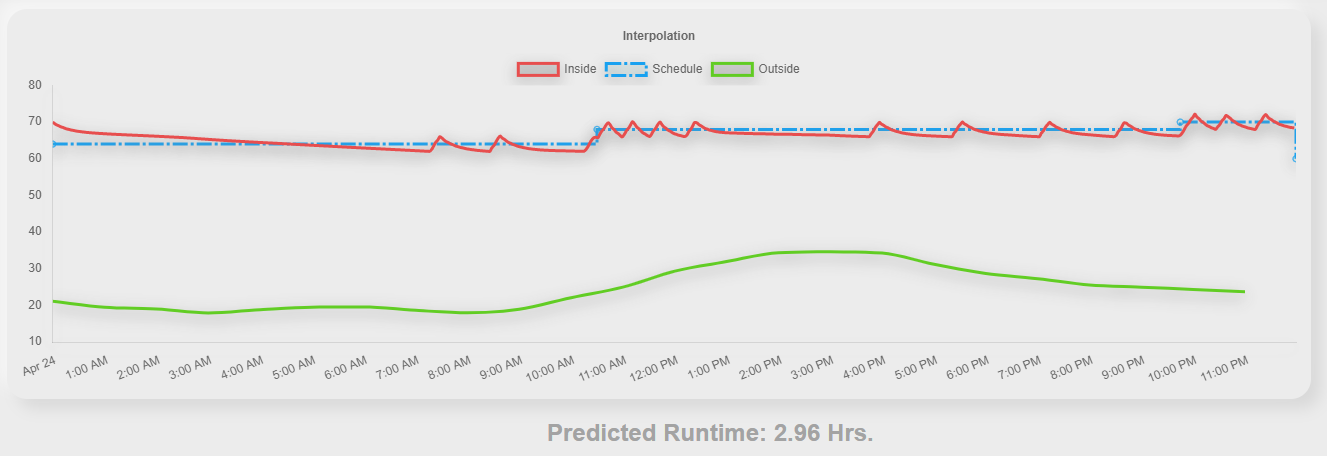
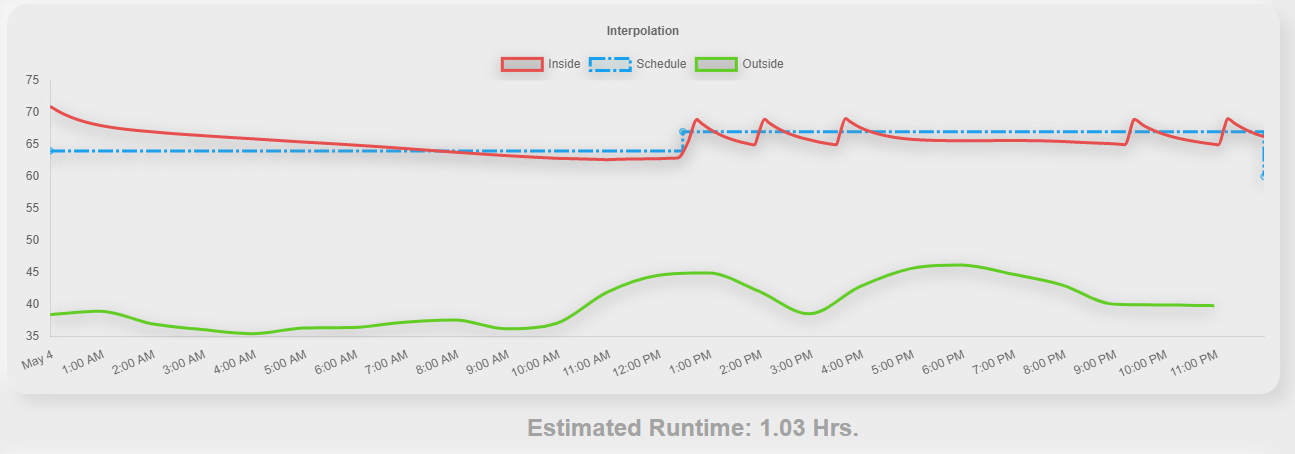
C++ implementation updated

diff --git a/modules/simulation_cpp/simulation.cpp b/modules/simulation_cpp/simulation.cpp
@@ -1,19 +1,16 @@
 #include <iostream>
 #include <boost/python.hpp>
+#include <deque>
 
 using namespace boost::python;
 
-const int N = 250;
-const double delta_time = 0.01;
-const double BTU = 25.0;
-const double thresh_L = 2.0;
-const double thresh_H = 2.0;
-bool heat_on = false;
-bool last_heating = false;
+double delta_time = 0.01;
+double BTU = 25.0;
+double thresh_L = 2.0;
+double thresh_H = 2.0;
 double runtime = 0.0;
-double time_hr = 0.0;
 
-double find_target_t(list schedule) {
+double get_target_temp(double time_hr, list schedule) {
 	double target_t = 0.0;
 
 	int n = len(schedule);
@@ -30,94 +27,95 @@ double find_target_t(list schedule) {
 	return target_t;
 }
 
-double H(double temp, list schedule) {
-	double target_t = find_target_t(schedule);
-
-	if (temp <= target_t - thresh_L) {
+double H(double inside_t, double target, bool* furnace_on) {
+	if (inside_t < (target - thresh_L) || (*furnace_on && inside_t < (target + thresh_H))) {
 		runtime += delta_time;
-		heat_on = true;
+		*furnace_on = true;
 		return BTU;
 	}
-	else if (temp <= target_t + thresh_H && heat_on) {
-		runtime += delta_time;
-		return BTU;
-	}
-	else {
-		heat_on = false;
-		return 0.0;
-	}
+	*furnace_on = false;
+	return 0.0;
 }
 
-tuple simulate(double start_temperature, list sched, list weather_t, list uv_index) {
+tuple simulate(double start_temperature, list sched, list weather_t, list uv_index, dict vals) {
 	// time of day in hours
-	time_hr = 0.0;
+	double time_hr = 0.0;
 	// if the furnace is on
-	heat_on = false;
-	last_heating = false;
+	bool furnace_on = false;
+	
+	BTU = extract<double>(vals.get("btu"));
+	delta_time = extract<double>(vals.get("delta-time"));
+	thresh_H = extract<double>(vals.get("thresh-upper"));
+	thresh_L = extract<double>(vals.get("thresh-lower"));
+	int sample_avg_size = extract<int>(vals.get("sample-avg"));
+	int rolling_avg_size = extract<int>(vals.get("rolling-avg-size"));
+
 	// insulation
-	double k1 = 0.08; // wall
-	double k2 = 0.18; // cieling
-	double k3 = 0.03; // roof
+	double k1 = extract<double>(vals.get("k1")); // wall
+	double k2 = extract<double>(vals.get("k2")); // cieling
+	double k3 = extract<double>(vals.get("k3")); // roof
+	double f1 = extract<double>(vals.get("f1")); // uv walls
+	double f2 = extract<double>(vals.get("f2")); // uv roof
+	runtime = 0.0;
+
 	// starting temperatures
 	double inside_t = start_temperature;
 	double attic_t = start_temperature - 4.0;
+
 	// change in temperature
 	double delta_t1, delta_t2;
+
 	// used for heat capacity calculations
-	double heat_retension[N];
-	int index = 0;
-	double accum = (inside_t - 2.0)*N;
-	std::fill_n(heat_retension, N, attic_t+2.0);
+	std::deque<double> heat_retension(rolling_avg_size);
+	std::deque<double> sample_arr(sample_avg_size);
+	double accum = (inside_t - 2.0)*rolling_avg_size;
+	double sample_avg = (inside_t)*sample_avg_size;
+	std::fill_n(heat_retension.begin(), rolling_avg_size, inside_t-2.0);
+	std::fill_n(sample_arr.begin(), sample_avg_size, inside_t);
+
 	// data to return
-	bool save_every_other = true;
 	runtime = 0.0;
 	list data;
-
-	while(time_hr < 23.99) {
+	while(time_hr < 24.0) {
 		// extract variables
 		int hour_index = int(time_hr);
 		double outside_t = extract<double>(weather_t[hour_index]);
 		double uv = extract<double>(uv_index[hour_index]);
 
-		// not every data point needs to be graphed
-		if (save_every_other) {
-			data.append(make_tuple(inside_t, time_hr));
-		}
-		save_every_other = !save_every_other;
+		data.append(make_tuple(inside_t, time_hr));
+
+		// heat_retension update rolling average
+		double old = heat_retension.front();
+		heat_retension.push_back(inside_t);
+		accum = accum - old + inside_t;
+		heat_retension.pop_front();
+
+		old = sample_arr.front();
+		sample_arr.push_back(inside_t);
+		sample_avg = sample_avg - old + inside_t;
+		sample_arr.pop_front();
+		
+
+		double c = (accum/rolling_avg_size) - inside_t;
+		double inside_avg = sample_avg / sample_avg_size;
+		double target = get_target_temp(time_hr, sched);
+		double h = H(inside_avg, target, &furnace_on);
+		//std::cout << inside_avg << std::endl;
 
 		// calculate change in temperature
-		delta_t1 = k1 * (outside_t - inside_t) + k2 * (attic_t-inside_t) + H(inside_t, sched) + uv * 0.2;
-		delta_t2 = k2 * (inside_t - attic_t) + k3 * (outside_t - attic_t) + uv * 0.9;
+		delta_t1 = k1 * (outside_t - inside_t) + k2 * (attic_t-inside_t) + h + uv * f1 + c;
+		delta_t2 = k2 * (inside_t - attic_t) + k3 * (outside_t - attic_t) + uv * f2;
 
 		// scale the change in temperature
 		delta_t1 *= delta_time;
 		delta_t2 *= delta_time;
 
-		// heat_retension update rolling average
-		if(index >= N) {
-			index = 0;
-		}
-		double old = heat_retension[index];
-		heat_retension[index++] = inside_t;
-		accum = accum - old + inside_t;
-
-		if(!heat_on) {
-			double pen = (accum / N - inside_t) * delta_time;
-			delta_t1 += pen*2.7;
-		}
-
-		// add the change in temperature plus heat from neighbors wall
-		inside_t += delta_t1 + 0.0005*(72.0-inside_t);
-		attic_t += delta_t2  + 0.0005*(69.0-attic_t);
-
-		// if the heater just turned off, add a little time for it to shutdown
-		if (!heat_on && last_heating) {
-			runtime += 0.01;
-		}
+		// add the change in temperature
+		inside_t += delta_t1;
+		attic_t += delta_t2;
 
 		// increment time
 		time_hr += delta_time;
-		last_heating = heat_on;
 	}
 
 	return make_tuple(data, runtime);

diff --git a/tests/benchmarkCppModel.py b/tests/benchmarkCppModel.py
@@ -1,0 +1,32 @@
+import time
+
+from logging.handlers import RotatingFileHandler
+from modules.heatingModel import HeatingModel
+from modules.simulation_cpp import simulation
+import sys
+
+def test_benchmark():
+	heatingModel = HeatingModel('./config.json', RotatingFileHandler(filename='/dev/null'), 'DEBUG')
+	vals = heatingModel.get_values()
+	starting_temperature = 68.0
+	sched = [(0.0, 62.0), (12.0, 68.0), (18.5, 70.0), (22.0, 64.0)]
+	temps = [31.32, 32.28, 29.47, 29.61, 30.68, 30.05, 29.57, 29.98, 29.09, 28.85, 31.42, 32.74, 34.01, 35.13, 36.39, 36.15, 36.64, 35.74, 33.59, 31.35, 28.75, 26.8, 27.05, 26.09]
+	uv = [0, 0, 0, 0, 0, 0, 0, 0, 0, 0, 1, 1, 1, 2, 1, 1, 0, 0, 0, 0, 0, 0, 0, 0]
+
+	print('Testing with these parameters:')
+	print(vals)
+	start = time.time()
+	for _ in range(500):
+		data, runtime_cpp = simulation.simulate(starting_temperature, sched, temps, uv, vals)
+	cpp_time = time.time() - start
+	print('CPP time: {:.3f}s'.format(cpp_time))
+
+	start = time.time()
+	for _ in range(500):
+		data, runtime_py = heatingModel.simulate(starting_temperature, sched, temps, uv)
+	py_time = time.time() - start
+	print('Py time: {:.3f}s'.format(py_time))
+	print('C++ is {:.1f}x times faster'.format(py_time/cpp_time))
+
+	assert py_time > cpp_time
+	assert runtime_py == runtime_cpp

diff --git a/modules/simulationDayController.py b/modules/simulationDayController.py
@@ -6,7 +6,7 @@ from logging import Handler
 from datetime import datetime, timedelta, date
 
 from database import Cycle
-from modules.model import HeatingModel
+from modules.heatingModel import HeatingModel
 try:
 	from modules.simulation_cpp import simulation
 except:

diff --git a/testRunner.py b/testRunner.py
@@ -1,0 +1,3 @@
+from tests import benchmarkCppModel
+
+benchmarkCppModel.test_benchmark()
